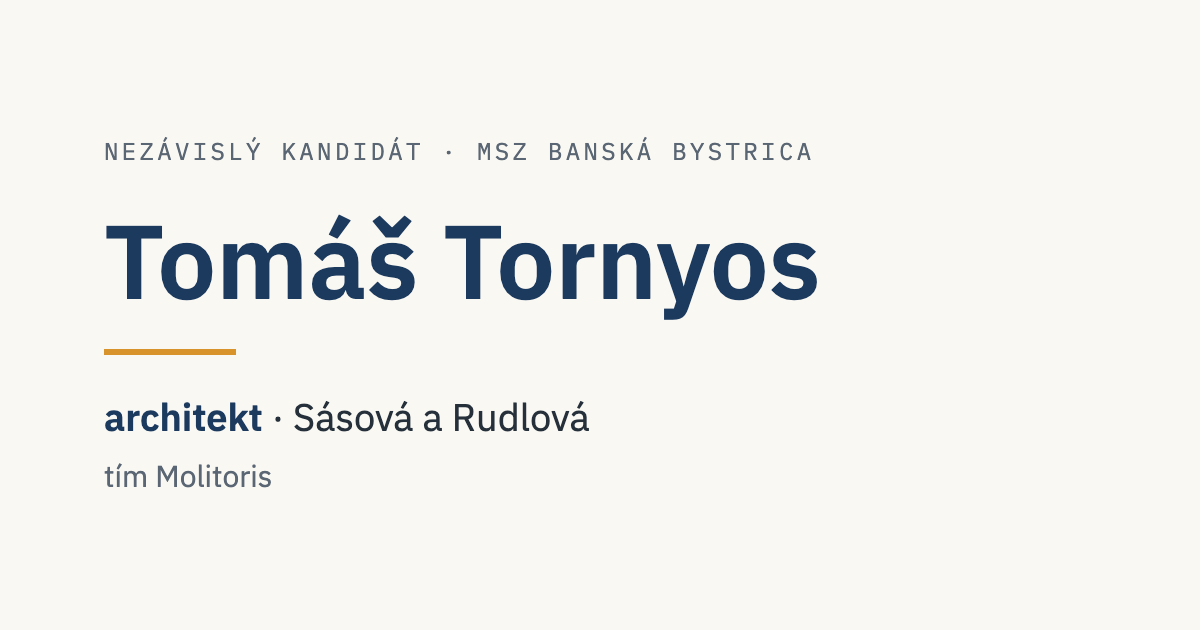
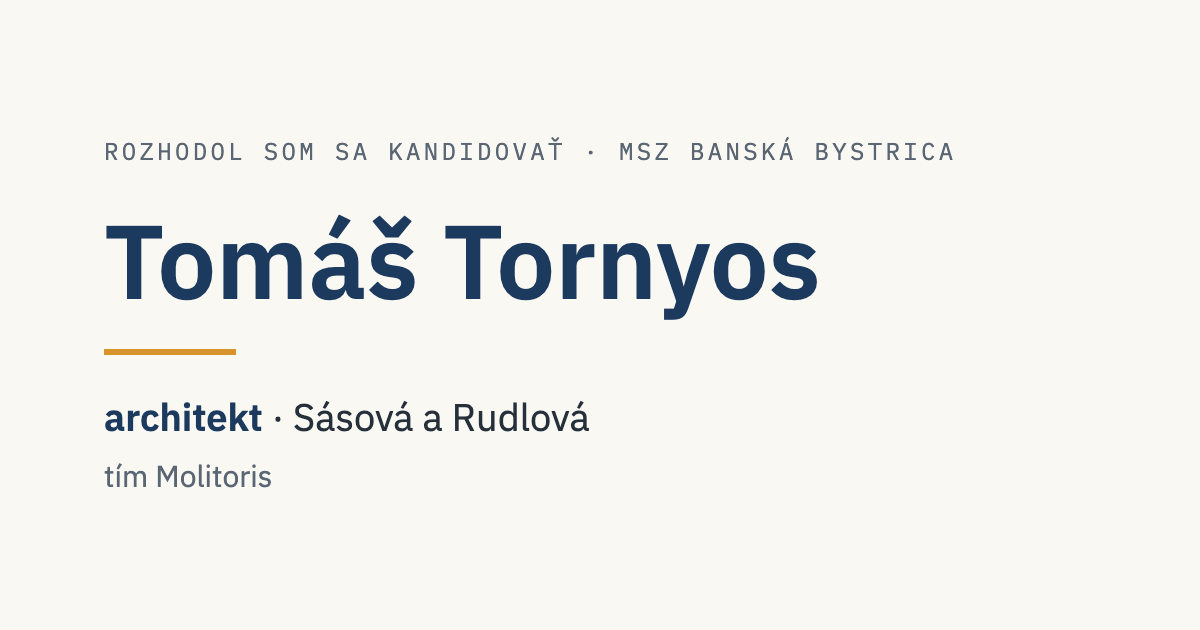
S1 obsah (variant A): status zberu podpisov, bez 'nezávislý kandidát'
Rozhodnutie kandidáta (2026-07-14): v tejto fáze len zbiera podpisy, nie je ešte formálny
kandidát — fráza 'nezávislý kandidát' sa nemá objavovať.

- eyebrow: 'Nezávislý kandidát' -> 'Rozhodol som sa kandidovať'
- hero podtitul (k1): -> 'Za Sásovú a Rudlovú. Sľuby, ktoré si viete skontrolovať.'
- hero: nová veta pod tímom 'Zatiaľ zbieram podpisy... ako nezávislý poslanec.' (info, žiadny online zber)
- O mne naratív: preformulovaný podľa kandidáta (bicykel/opekačka/parkovanie/deti; 'dobrý základ')
- OG popis + Base default description: bez 'nezávislý kandidát'
- OG obrázok: eyebrow prekreslený na 'Rozhodol som sa kandidovať' (regenerovaný)

Changed region(s): [[0.0925, 0.2111, 0.8017, 0.2714]]

diff --git a/src/content/copy.ts b/src/content/copy.ts
@@ -10,9 +10,12 @@
 /* ---------- Hero ---------- */
 
 export const HERO = {
-  eyebrow: "Nezávislý kandidát · MsZ Banská Bystrica · Sásová a Rudlová",
+  eyebrow: "Rozhodol som sa kandidovať · MsZ Banská Bystrica · Sásová a Rudlová",
   name: "Tomáš Tornyos — architekt",
   team: "Kandidujem v tíme Molitoris.",
+  // Status: zatiaľ nie je formálny kandidát — zbiera podpisy (žiadny ONLINE zber, len info).
+  signatures:
+    "Zatiaľ zbieram podpisy, vďaka ktorým budem môcť podať kandidatúru ako nezávislý poslanec.",
 } as const;
 
 /**
@@ -22,8 +25,7 @@ export const HERO = {
 export const CLAIMS = {
   k1: {
     claim: "Aby sa v Sásovej oplatilo zostať",
-    subtitle:
-      "Nezávislý kandidát na poslanca za Sásovú a Rudlovú (tím Molitoris). Sľuby, ktoré si viete skontrolovať.",
+    subtitle: "Za Sásovú a Rudlovú. Sľuby, ktoré si viete skontrolovať.",
   },
   k2: {
     claim: "Sásová a Rudlová: pokoj, priestor, poriadok",
@@ -64,9 +66,9 @@ export const ABOUT = {
 
   /** Blok 1 — osobný naratív (Verzia B), Serif. Tri odseky. */
   narrative: [
-    "Býval som v Sásovej. Kočíkoval som v nej dve z troch svojich detí. Do práce som chodieval na bicykli — po cestách, nebezpečne. Krásna príroda na dosah, ale kam ísť na opekačku? A parkovať som sa naučil ako majster: kamaráti obdivovali moje umenie vtesnať sa do najmenšieho miesta. V kopci. So spiatočkou.",
+    "Býval som v Sásovej. Do práce som chodieval na bicykli — po cestách, nebezpečne. Krásna príroda na dosah, ale kam ísť na opekačku? Parkovať som sa naučil ako majster: kamaráti obdivovali moje umenie vtesnať sa do najmenšieho miesta. V kopci. So spiatočkou. A dve z troch svojich detí som kočíkoval práve tu.",
     "Čo sa odvtedy zmenilo? Nie veľa.",
-    "Až s odstupom — a s okom architekta — som pochopil, aké dobré kosti Sásová má. Mierka, zeleň medzi domami, výhľady. To sa nedá dostavať. To sa dá len pokaziť. Alebo ustrážiť.",
+    "Až s odstupom — a s okom architekta — som pochopil, aký dobrý základ Sásová má. Mierka, zeleň medzi domami, výhľady. To sa nedá dostavať. To sa dá len pokaziť. Alebo ustrážiť.",
   ],
 
   /** Blok 2 — profesijný dôkaz (Verzia A), Sans. */
@@ -109,7 +111,7 @@ export const FOOTER = {
 export const OG = {
   title: "Tomáš Tornyos — architekt · Sásová a Rudlová",
   description:
-    "Ing. arch. Tomáš Tornyos — nezávislý kandidát na poslanca MsZ Banská Bystrica za Sásovú a Rudlovú (tím Molitoris).",
+    "Ing. arch. Tomáš Tornyos — architekt. Rozhodol som sa kandidovať za poslanca MsZ Banská Bystrica pre Sásovú a Rudlovú (tím Molitoris).",
   image: "/og/og-default.png",
   width: 1200,
   height: 630,
